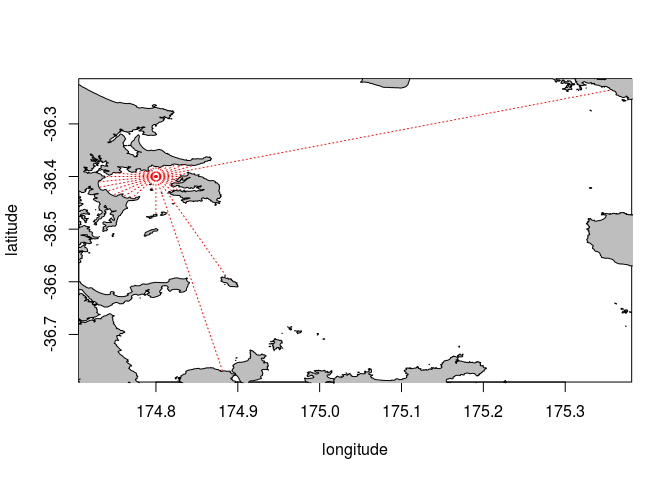
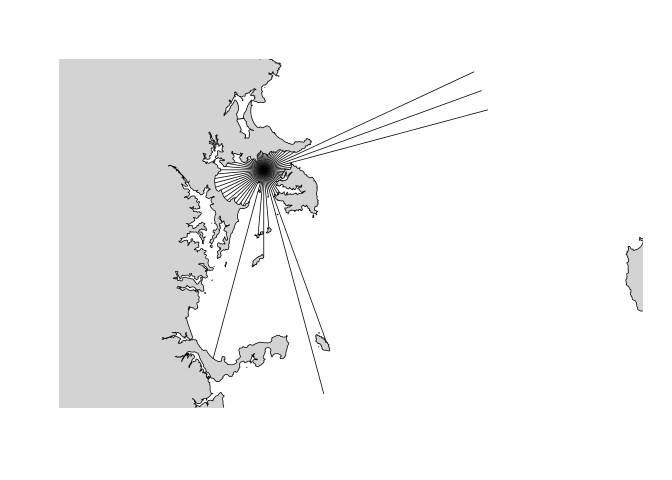
Update README

diff --git a/README.md b/README.md
@@ -5,8 +5,8 @@
 This package was designed to provide an objective measurement of fetch for any
 coastal location around New Zealand. Calculating fetch by hand is inaccurate,
 time-consuming and unreliable. The `fetchR` package provides a single function
-to calculate the average fetch, all that is required is the longitude and 
-latitude of the location in decimal degrees.
+to calculate the average fetch, all that is required is the latitude and 
+longitude of the location in decimal degrees.
 
 # Installation
 
@@ -53,39 +53,13 @@ longitude = 174.8 (to the nearest 100m):
 
 ```r
 library(fetchR)
-kawau_bay = fetch(174.8, -36.4)
+kawau_bay = fetch(-36.4, 174.8)
 ```
 
 ```
+## Projecting location onto NZTM 2000 map projection
 ## checking coordinate is not on land
 ## calculating fetch
-## 35 more directions to calculate
-## 34 more directions to calculate
-## 33 more directions to calculate
-## 31 more directions to calculate
-## 29 more directions to calculate
-## 27 more directions to calculate
-## 24 more directions to calculate
-## 23 more directions to calculate
-## 21 more directions to calculate
-## 19 more directions to calculate
-## 18 more directions to calculate
-## 17 more directions to calculate
-## 16 more directions to calculate
-## 15 more directions to calculate
-## 14 more directions to calculate
-## 13 more directions to calculate
-## 12 more directions to calculate
-## 11 more directions to calculate
-## 10 more directions to calculate
-## 9 more directions to calculate
-## 8 more directions to calculate
-## 6 more directions to calculate
-## 5 more directions to calculate
-## 4 more directions to calculate
-## 3 more directions to calculate
-## 2 more directions to calculate
-## 1 more directions to calculate
 ```
 
 ```r
@@ -94,67 +68,64 @@ head(kawau_bay)
 ```
 
 ```
-##   longitude latitude direction distance
-## 1     174.8   -36.38         0      2.1
-## 2     174.8   -36.38        10      2.0
-## 3     174.8   -36.38        20      2.5
-## 4     174.8   -36.38        30      2.6
-## 5     174.8   -36.38        40      3.3
-## 6     174.8   -36.38        50      3.8
+   latitude longitude direction fetch
+1 -36.39953  174.8306        90  2.74
+2 -36.40347  174.8273       100  2.48
+3 -36.40688  174.8248       110  2.35
+4 -36.41251  174.8280       120  2.87
+5 -36.41348  174.8206       130  2.38
+6 -36.41755  174.8189       140  2.58
 ```
 
 The summary function gives the location coordinates, average and median fetch
-and the most exposed direction(s).
+and summarises the average fetch length from the four compass quadrants.
 
 ```r
 summary(kawau_bay)
 ```
 
 ```
-## Latitude: -36.4
-## Longitude: 174.8
-## Average fetch:	6.531
-## Median fetch:	3.05
-## Exposed directions:	70
+Latitude:  -36.4
+Longitude: 174.8
+Average:   4.96km
+Median:    2.86km
+
+Average northerly fetch [315, 45):  2.5km
+Average easterly fetch [45, 135):   6.1km
+Average southerly fetch [135, 225): 6.7km
+Average westerly fetch [225, 315):  4.8km
+
+n_bearings = 9
 ```
 
 # Plotting methods
 Plotting the resulting vectors is easy with the default plot method.
 
 ```r
-plot(kawau_bay, lty = 3, col = "red")
-```
-
-```
-## initializing plot...
+plot(kawau_bay)
 ```
 
 ![default fetch plot](./figures/fetch_plot.png)
 
-This plot can be further enhanced with the use of the `ggmap` package for R.
-
-```r
-# install.packages("ggmap")
-library(ggmap)
-
-my_map = ggmap(get_map(c(kawau_bay@location_long, kawau_bay@location_lat), 
-                         maptype = "satellite", zoom = 9))
-
-my_map + geom_segment(data = NULL, aes(x = kawau_bay@location_long,
-                                       xend = kawau_bay$longitude,
-                                       y = kawau_bay@location_lat,
-                                       yend = kawau_bay$latitude),
-                      na.rm = TRUE, colour = "white", linetype = 3)
-```
-![ggmap fetch](./figures/ggmap.png)
-
 ## Output to KML
 Many GIS applications involve KML files for collaboration, interaction and 
-editing. The vectors in each direction can be exported to KML files via the 
-`save_kml` method.
+editing. The vectors in each direction can be exported to KML files using the 
+`kml` function in the `plotKML` package.
 
 ```r
-save_kml(kawau_bay, "kawau_bay.kml")
+# Install and load plotKML library
+if (!require(plotKML))
+  install.packages("plotKML")
+  
+library(plotKML)
+
+Create some labels indicating the fetch vector directions
+labs = sapply(slot(kawau_bay, "lines"), slot, "ID")
+
+# Save 'kawau_bay.kml' to the current directory
+kml(kawau_bay, labels = labs)
 ```
 
 ![ggmap fetch](./figures/kml.png)
+
+CC-By Land Information New Zealand. This product uses data sourced from Landcare Research under CC-BY, http://creativecommons.org/licenses/by/3.0/nz/
